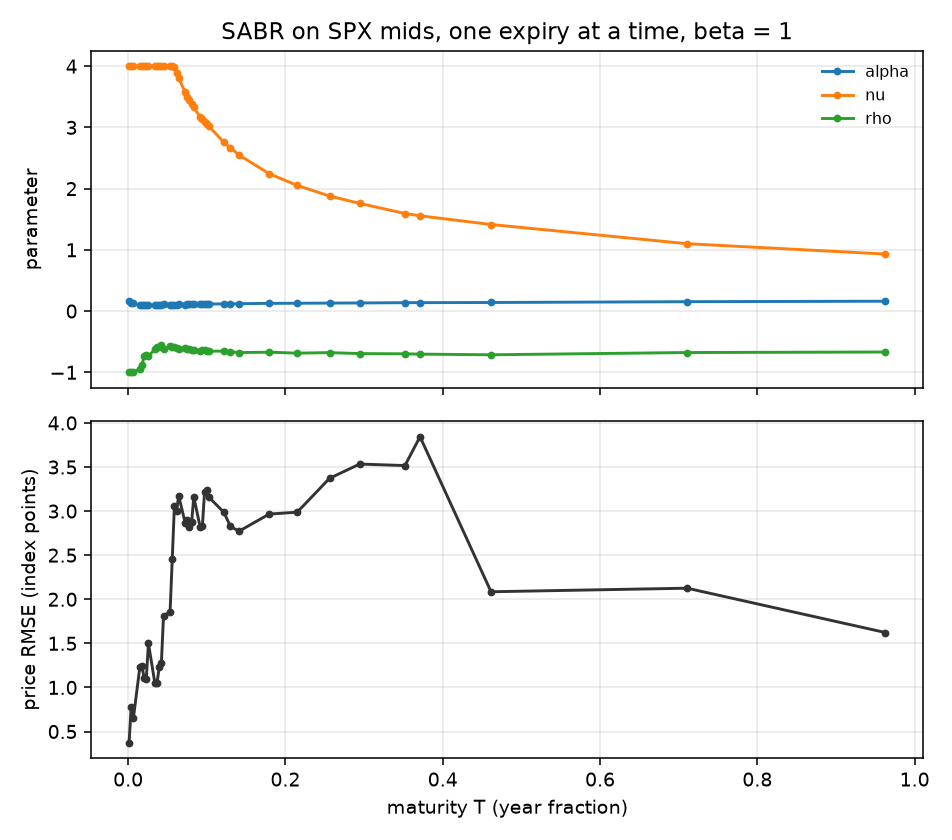
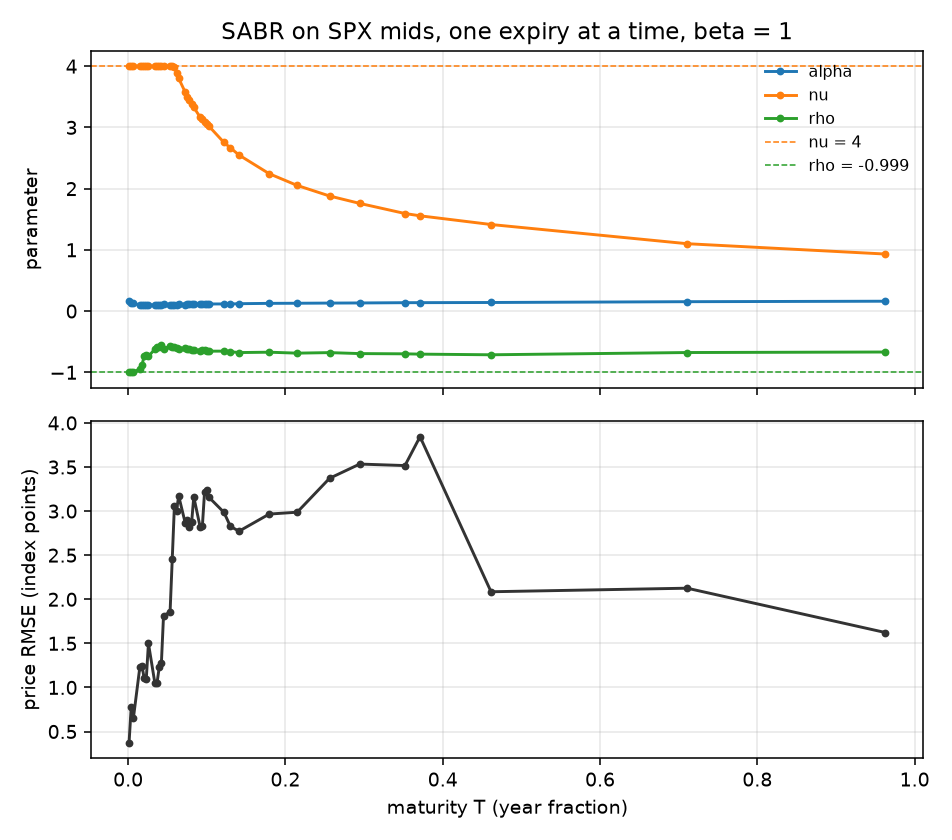
p2f: mark the nu and rho bounds on the SPX SABR figure
Dashed lines at nu = 4 and rho = -0.999 sit on the short-dated slices
that the fitter pins to those bounds.

Changed region(s): [[0.792, 0.0619, 0.9748, 0.2167], [0.9139, 0.1857, 0.9443, 0.2167], [0.9139, 0.1238, 0.9443, 0.1548]]

diff --git a/scripts/figures_p2f.py b/scripts/figures_p2f.py
@@ -276,6 +276,8 @@ def spx_fit() -> dict:
     axes[0].plot(report["T"], report["alpha"], marker="o", ms=3, label="alpha")
     axes[0].plot(report["T"], report["nu"], marker="o", ms=3, label="nu")
     axes[0].plot(report["T"], report["rho"], marker="o", ms=3, label="rho")
+    axes[0].axhline(4.0, color="C1", ls="--", lw=0.8, label="nu = 4")
+    axes[0].axhline(-0.999, color="C2", ls="--", lw=0.8, label="rho = -0.999")
     axes[0].set_ylabel("parameter")
     axes[0].legend(frameon=False, fontsize=8)
     axes[0].grid(True, alpha=0.3)
